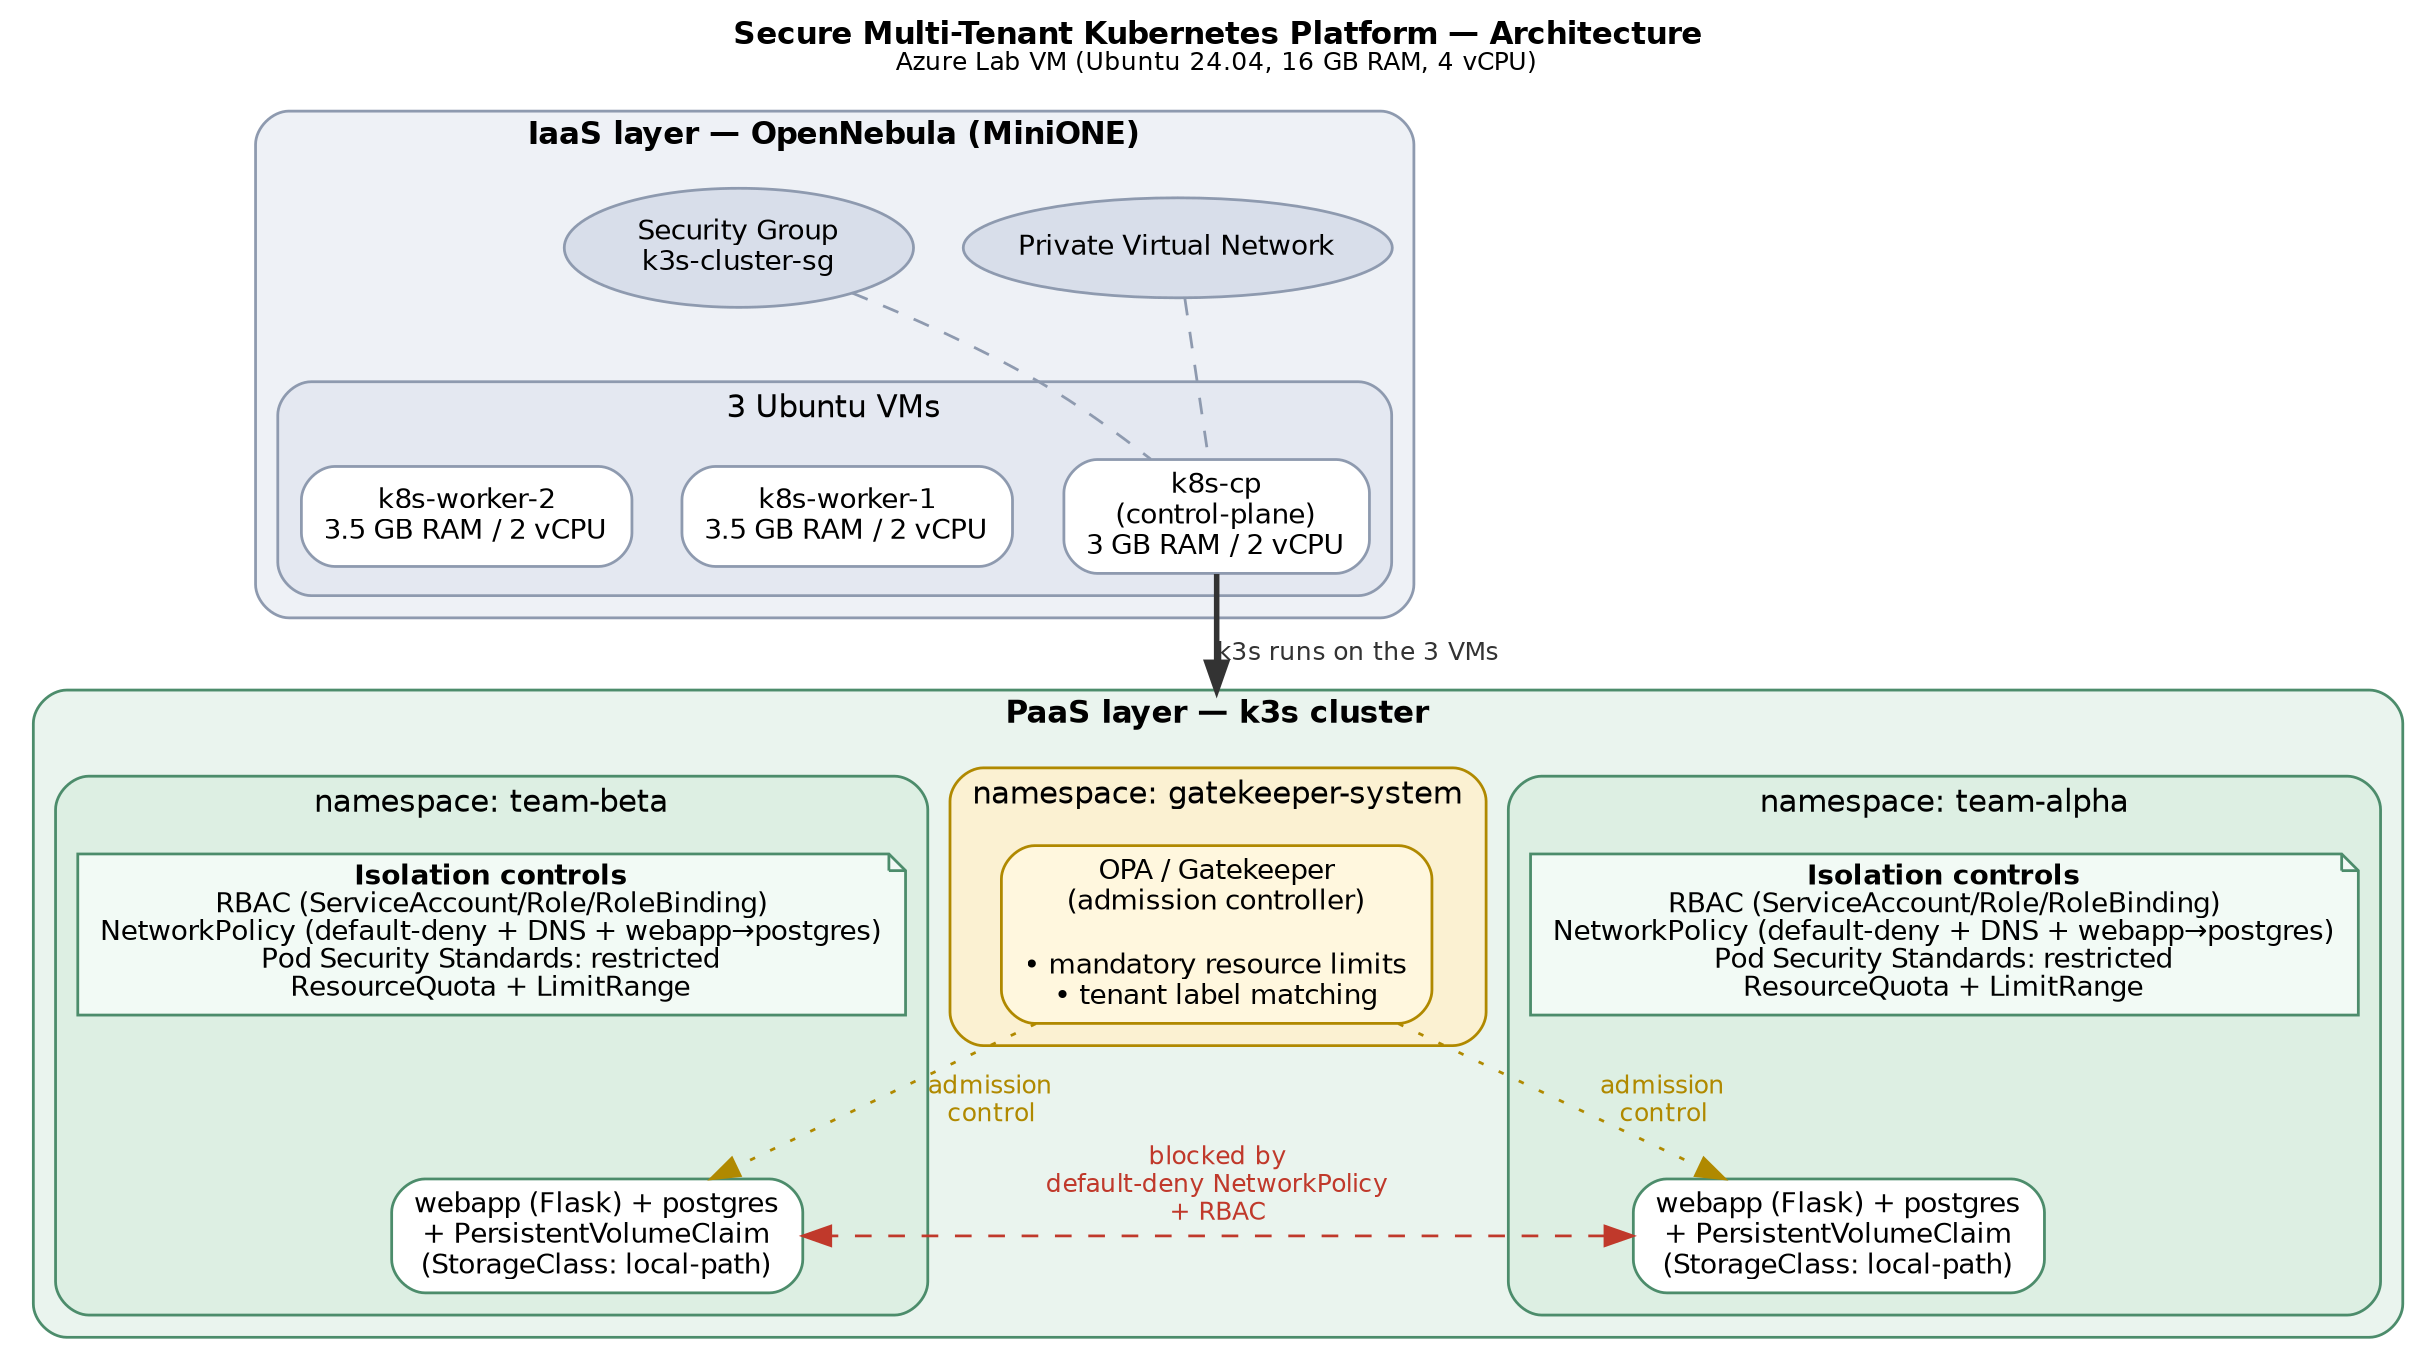
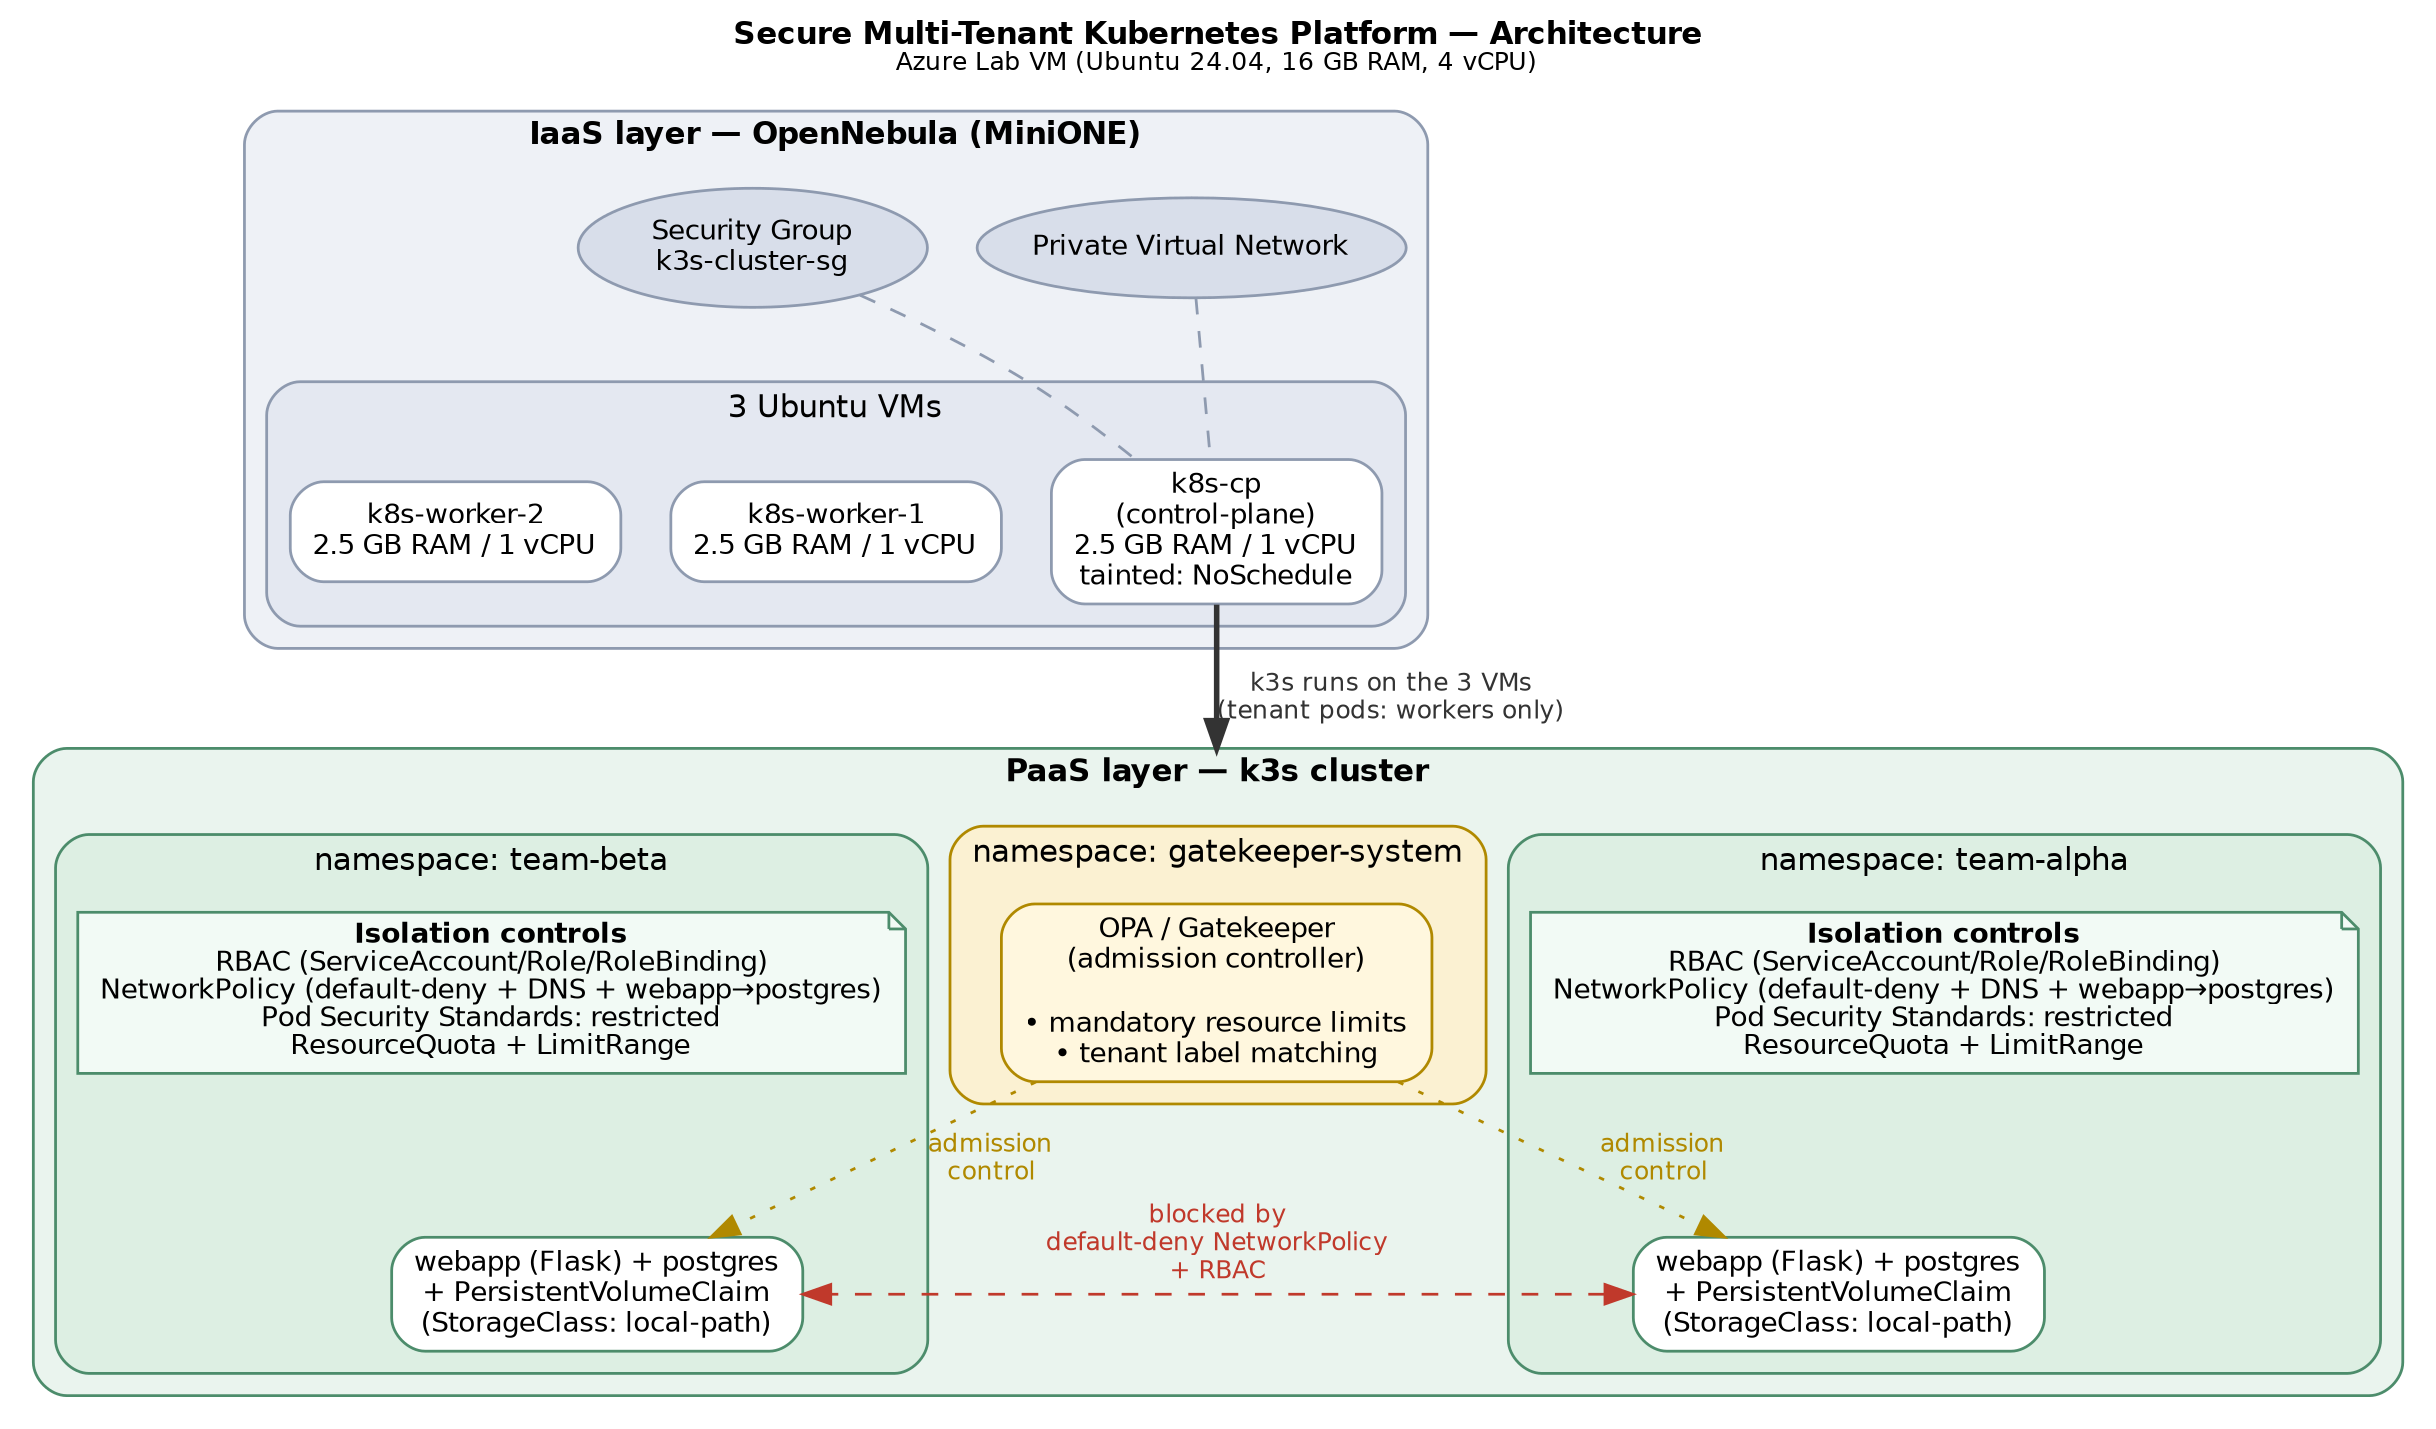
Updated the README, architecture and enviroment with the ip address and new value of the resources

diff --git a/README.md b/README.md
@@ -30,14 +30,14 @@ Summary:
 Azure Lab VM (Ubuntu 24.04, 16 GB RAM, 4 vCPU)
 │
 ├── OpenNebula (MiniONE) — IaaS layer
-│   ├── Private Virtual Network
+│   ├── Private Virtual Network "fcc-k3s-net" (172.16.100.101-120)
 │   ├── Security Group "k3s-cluster-sg"
-│   └── 3 Ubuntu VMs:
-│       ├── k8s-cp       (control-plane, 3 GB RAM, 2 vCPU)
-│       ├── k8s-worker-1 (3.5 GB RAM, 2 vCPU)
-│       └── k8s-worker-2 (3.5 GB RAM, 2 vCPU)
+│   └── 3 Ubuntu 22.04 VMs (1 vCPU / 2.5 GB RAM / 10 GB disk each):
+│       ├── k8s-cp       172.16.100.101 (control-plane, tainted NoSchedule)
+│       ├── k8s-worker-1 172.16.100.102
+│       └── k8s-worker-2 172.16.100.103
 │
-└── k3s runs on the 3 VMs — PaaS layer
+└── k3s runs on the 3 VMs — PaaS layer (tenant workloads: workers only)
     ├── namespace team-alpha   (webapp + postgres + PVC on local-path,
     │                           PSS restricted, ResourceQuota + LimitRange)
     ├── namespace team-beta    (webapp + postgres + PVC on local-path,
@@ -45,30 +45,54 @@ Azure Lab VM (Ubuntu 24.04, 16 GB RAM, 4 vCPU)
     └── namespace gatekeeper-system (OPA Gatekeeper)
 ```
 
-**Local development note:** since VM access was granted partway through the project, most of
-the Kubernetes-layer work (namespaces, RBAC, NetworkPolicy, Gatekeeper, ResourceQuota/LimitRange,
-workloads) was developed and validated on a local [k3d](https://k3d.io/) single-node cluster
-before being deployed to the real 3-node cluster. k3d runs actual k3s in Docker, including the
-same kube-router-based NetworkPolicy controller used in production — see `docs/environment.md`
-for details.
+The control-plane node is tainted (`node-role.kubernetes.io/control-plane=true:NoSchedule`)
+so tenant pods are only ever scheduled on the two worker nodes.
+
+> The IPs shown (172.16.100.101-103) are private, valid only within this project's OpenNebula
+> VNet — not reachable from outside, and may change if the VMs are ever reprovisioned from
+> scratch. See `docs/environment.md` for the up-to-date table.
+
+**Local development note:** most of the Kubernetes-layer work (namespaces, RBAC, NetworkPolicy,
+Gatekeeper, ResourceQuota/LimitRange, workloads) was first developed and validated on a local
+[k3d](https://k3d.io/) single-node cluster, then deployed and re-verified on the real 3-node
+cluster provisioned on the DISI lab VM. k3d runs actual k3s in Docker, including the same
+kube-router-based NetworkPolicy controller used in production — see `docs/environment.md` for
+details.
+
+**IaaS provisioning:** completed independently on a dedicated OpenNebula (MiniONE) instance on
+the lab VM — image registration, VNet, security group, VM template with SSH-key contextualization,
+and instantiation of the 3 VMs, all via CLI. See `docs/vm-setup-runbook.md` for the full command
+sequence, and `docs/environment.md` for the networking issues encountered and resolved along the
+way (host-level routing, DNS resolution on Azure, iptables persistence).
 
 ## Prerequisites
 
 - Access to the Azure Lab VM (OpenNebula/FireEdge)
 - `kubectl`
-- `k3s` (installed automatically by the setup scripts)
+- `k3s` (installed manually on each node — see `docs/vm-setup-runbook.md`)
 - Docker (for building the demo webapp image)
 
 ## Setup
 
 ### 1. IaaS Provisioning
 
-See `iaas/` for OpenNebula VM templates and provisioning notes (Lorenzo — Fase 1).
+Full command sequence (image, VNet, security group, VM template, instantiation) in
+`docs/vm-setup-runbook.md`. Also see `iaas/` for the OpenNebula template files.
 
 ### 2. Cluster Bootstrap
 
-k3s install on control-plane and workers. See `docs/environment.md` for the real VM IPs and
-bootstrap commands (Lorenzo — Fase 2).
+```bash
+# On k8s-cp:
+curl -sfL https://get.k3s.io | sh -
+sudo cat /var/lib/rancher/k3s/server/node-token   # copy the token
+
+# On each worker:
+curl -sfL https://get.k3s.io | K3S_URL=https://172.16.100.101:6443 K3S_TOKEN=<token> sh -
+```
+
+Real VM IPs, the control-plane taint command, and the DNS/networking fixes required on this
+specific Azure/OpenNebula setup are documented in `docs/vm-setup-runbook.md` and
+`docs/environment.md`.
 
 ### 3. Build and Import the Webapp Image
 
@@ -80,14 +104,17 @@ cd ..
 # Local k3d cluster:
 k3d image import team-webapp:local -c fcc-dev
 
-# Real k3s cluster (on the VM):
-docker save team-webapp:local | ssh <vm-host> sudo k3s ctr images import -
+# Real k3s cluster — import on every worker node (containerd caches are per-node,
+# not shared; the control-plane is tainted so it never needs the image):
+docker save team-webapp:local | ssh <worker-host> sudo k3s ctr images import -
 ```
 
 ### 4. Create the Postgres Secrets
 
 Credentials are kept out of version control (see `k8s/04-workloads/*.env.example`).
-Copy each example, fill in real values, then generate the Secret imperatively:
+Copy each example, fill in real values, then generate the Secret imperatively — ideally using a
+kubeconfig scoped to the tenant's own ServiceAccount rather than a cluster-admin one, to keep the
+operation consistent with each tenant's actual RBAC permissions:
 
 ```bash
 cp k8s/04-workloads/postgres-alpha.env.example k8s/04-workloads/postgres-alpha.env
@@ -114,21 +141,33 @@ kubectl apply -f k8s/03-gatekeeper/
 kubectl apply -f k8s/04-workloads/
 ```
 
-If deploying to a cluster with different worker capacity than the local dev environment,
-recalibrate the CPU/memory values in `k8s/00-namespaces/resourcequota-*.yaml` and
-`limitrange-*.yaml` before applying — see the comment header in each file.
+`scripts/init-local.sh` automates this for the local k3d environment (including installing
+Gatekeeper from scratch); `scripts/init-deploy-vm.sh` automates it for the real cluster, assuming
+k3s is already bootstrapped and `KUBECONFIG` is already pointed at it.
+
+`ResourceQuota`/`LimitRange` values in `k8s/00-namespaces/resourcequota-*.yaml` and
+`limitrange-*.yaml` are calibrated for this project's real worker capacity (1 vCPU / 2.5 GB each,
+control-plane excluded) — recalibrate if deploying to a cluster with different worker specs, see
+the comment header in each file.
 
 ### 6. Access the Webapp
 
+On the real cluster, use `scripts/port-forward.sh` (starts both port-forwards in the background,
+safe to re-run) and `scripts/stop-port-forward.sh` to stop them:
+
+```bash
+./scripts/port-forward.sh
+```
+
+From a laptop, open an SSH tunnel to the Azure VM forwarding both ports, then browse to
+`http://localhost:5000` (Team Alpha) and `http://localhost:5001` (Team Beta). See
+`docs/vm-setup-runbook.md` for the full tunnel command.
+
+Locally (k3d):
 ```bash
 kubectl port-forward -n team-alpha svc/webapp 5000:5000
 kubectl port-forward -n team-beta svc/webapp 5001:5000
 ```
-
-Open `http://localhost:5000` (Team Alpha) and `http://localhost:5001` (Team Beta).
-
-On the real cluster, the webapp Service is exposed via NodePort (30081/30082) — reachable
-directly at `http://<worker-ip>:30081` without port-forwarding.
 
 ## Validation
 
@@ -143,7 +182,12 @@ Pod Security Standards, Gatekeeper admission policies, and ResourceQuota/LimitRa
 See `docs/environment.md` for a detailed write-up of testing methodology and issues encountered
 during development (e.g. the kube-router REJECT-vs-timeout behavior, PSS securityContext
 requirements for Postgres, the admission controller evaluation order — PSS → Gatekeeper →
-LimitRange → ResourceQuota — discovered while testing the noisy-neighbor fix).
+LimitRange → ResourceQuota — discovered while testing the noisy-neighbor fix, and the
+Azure/OpenNebula networking issues encountered while bootstrapping the real cluster).
+
+`docs/vm-setup-runbook.md` also includes ready-to-run examples demonstrating a scoped
+ServiceAccount (`alpha-dev`) creating pods successfully in its own namespace and being rejected
+with a real `Forbidden` when targeting the other tenant's namespace.
 
 ## Cleanup
 
@@ -164,6 +208,7 @@ kubectl delete -f k8s/00-namespaces/
 ```
 .
 ├── docs/                environment.md (setup notes, issues log), architecture.png,
+│                        vm-setup-runbook.md (full Azure VM command sequence + demo examples),
 │                        proposal, final report
 ├── iaas/                OpenNebula templates and configuration
 ├── k8s/
@@ -174,5 +219,10 @@ kubectl delete -f k8s/00-namespaces/
 │   ├── 04-workloads/    postgres + webapp Deployments/Services/PVCs per tenant
 │   └── manual-tests/    ad-hoc pods used to validate policies during development
 ├── app/                 Flask + Postgres demo webapp (task board), shared image for both tenants
-└── scripts/             validate.sh — automated validation suite
+└── scripts/
+    ├── init-local.sh          bootstrap/resume the local k3d dev environment
+    ├── init-deploy-vm.sh      apply manifests to the real 3-node cluster
+    ├── validate.sh            automated validation suite
+    ├── port-forward.sh        expose both tenant webapps (idempotent, backgrounded)
+    └── stop-port-forward.sh   stop the port-forwards started above
 ```

diff --git a/docs/environment.md b/docs/environment.md
@@ -1,16 +1,30 @@
 # Ambiente di sviluppo
 
 ## Lab VM Azure
-- Owner:
-- Ore residue (controllare periodicamente):
+- Owner: Alessandro Brognara (istanza OpenNebula indipendente da quella di Lorenzo)
+- Ore residue (controllare periodicamente): [TODO] verificare dal portale Azure
+
+**Nota (richiesta esplicita del prof):** gli IP privati assegnati alle VM vanno annotati qui,
+servono costantemente per SSH/kubectl. Vedi tabella sotto.
 
 ## VM OpenNebula (Fase 1)
 
 | Nome | IP privato | RAM | vCPU |
 |---|---|---|---|
-| k8s-cp | | 3072 MB | 2 |
-| k8s-worker-1 | | 3584 MB | 2 |
-| k8s-worker-2 | | 3584 MB | 2 |
+| k8s-cp | 172.16.100.101 | 2560 MB | 1 |
+| k8s-worker-1 | 172.16.100.102 | 2560 MB | 1 |
+| k8s-worker-2 | 172.16.100.103 | 2560 MB | 1 |
+
+Valori RAM/vCPU ridimensionati rispetto al piano iniziale (3072/3584 MB, 2 vCPU): l'host della
+lab VM ha solo 4 vCPU fisiche totali, il piano originale avrebbe causato oversubscription
+significativa. Dettagli completi del provisioning in `docs/vm-setup-runbook.md`.
+
+**Attenzione:** questi IP sono validi solo per questa istanza OpenNebula specifica — se le VM
+vengono ricreate da zero (delete + nuova istanza dal template), OpenNebula potrebbe assegnarne
+di diversi dal pool (`172.16.100.101-120`). Verificare sempre con `onevm show <id>` prima di
+assumere che siano ancora questi.
+
+SSH: `ssh -i ~/.ssh/fcc-k3s-cluster ubuntu@172.16.100.10{1,2,3}`
 
 
 ## Note
